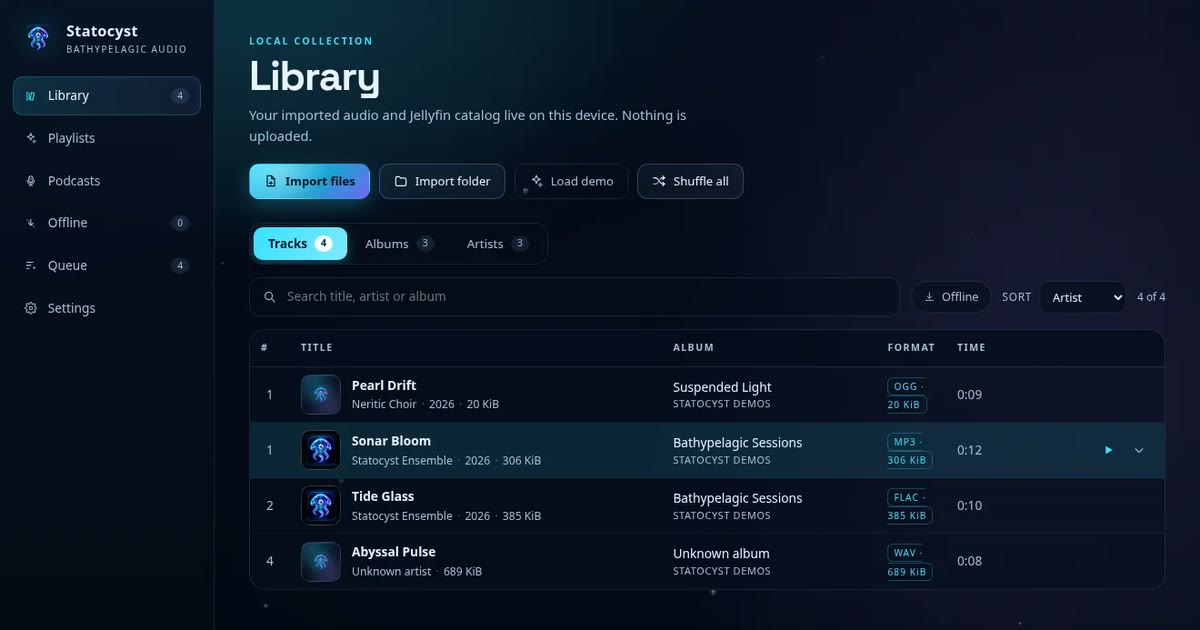
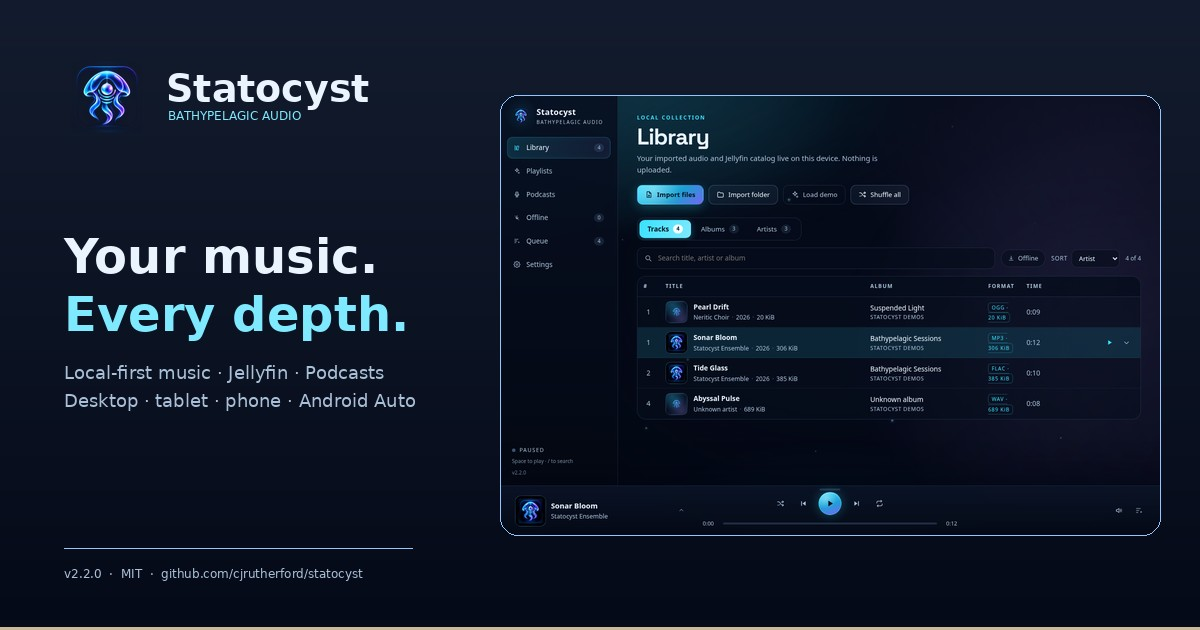
chore(site): complete P2 metadata and polish pass
Add a branded social card, smaller header mark, JSON-LD, robots and sitemap, and finish the remaining accessibility/performance cleanup. The screenshot pass no longer overwrites the OG card.

diff --git a/site/index.html b/site/index.html
@@ -24,6 +24,22 @@
   <link rel="manifest" href="site.webmanifest" />
   <link rel="preload" href="assets/fonts/space-grotesk.woff2" as="font" type="font/woff2" crossorigin />
   <link rel="preload" href="assets/screens/desktop-library-dark.webp" as="image" type="image/webp" />
+  <script type="application/ld+json">
+    {
+      "@context": "https://schema.org",
+      "@type": "SoftwareApplication",
+      "name": "Statocyst",
+      "applicationCategory": "MultimediaApplication",
+      "operatingSystem": "Linux, macOS, Windows, Android, iOS",
+      "description": "Local-first music and podcast player for local files, Jellyfin and Android Auto.",
+      "url": "https://cjrutherford.github.io/statocyst/",
+      "downloadUrl": "{{RELEASE_URL}}",
+      "softwareVersion": "{{VERSION}}",
+      "license": "https://github.com/cjrutherford/statocyst/blob/main/LICENSE",
+      "offers": { "@type": "Offer", "price": "0", "priceCurrency": "USD" },
+      "author": { "@type": "Organization", "name": "Statocyst contributors" }
+    }
+  </script>
   <link rel="stylesheet" href="styles.css" />
   <script>document.documentElement.classList.add('js');</script>
   <noscript><style>.video-toggle{display:none}</style></noscript>
@@ -35,7 +51,7 @@
   <header class="topbar">
     <div class="wrap topbar-inner">
       <a class="brand" href="#top" aria-label="Statocyst home">
-        <img src="assets/branding/statocyst-symbol.webp" alt="" width="512" height="512" />
+        <img src="assets/branding/statocyst-symbol-96.webp" alt="" width="96" height="96" />
         <span>Statocyst</span>
       </a>
       <nav class="nav" aria-label="Primary">
@@ -442,7 +458,7 @@
   <footer class="footer">
     <div class="wrap footer-inner">
       <div class="footer-brand">
-        <img src="assets/branding/statocyst-symbol.webp" alt="" width="512" height="512" />
+        <img src="assets/branding/statocyst-symbol-96.webp" alt="" width="96" height="96" />
         <div><strong>Statocyst</strong><span>Named after the jellyfish’s balance organ.</span></div>
       </div>
       <nav class="footer-links" aria-label="Footer">

diff --git a/tools/make-site-og.py b/tools/make-site-og.py
@@ -1,0 +1,97 @@
+#!/usr/bin/env python3
+"""Build the 1200x630 social card from the current desktop capture.
+
+This is a local design asset, not part of the CI Pages build. Run it after
+refreshing site/captures/desktop-library-dark.png.
+
+Requires Pillow and DejaVu fonts (both available in the reference environment).
+"""
+from pathlib import Path
+import json
+from PIL import Image, ImageDraw, ImageFont
+
+ROOT = Path(__file__).resolve().parent.parent
+CAPTURE = ROOT / 'site/captures/desktop-library-dark.png'
+SYMBOL = ROOT / 'site/assets/branding/statocyst-symbol-128.png'
+OUT = ROOT / 'site/assets/branding/og.jpg'
+
+W, H = 1200, 630
+BG = (5, 10, 24)
+TEXT = (233, 244, 255)
+MUTED = (169, 192, 216)
+CYAN = (127, 233, 255)
+SAND = (203, 185, 158)
+
+
+def font(path, size):
+    return ImageFont.truetype(path, size)
+
+
+def main():
+    capture = Image.open(CAPTURE).convert('RGB')
+    symbol = Image.open(SYMBOL).convert('RGBA')
+
+    canvas = Image.new('RGB', (W, H), BG)
+    draw = ImageDraw.Draw(canvas)
+
+    # A quiet vertical wash, then a warm sand horizon at the bottom.
+    for y in range(H):
+        t = y / H
+        r = int(5 + 14 * (1 - t))
+        g = int(10 + 18 * (1 - t))
+        b = int(24 + 22 * (1 - t))
+        draw.line((0, y, W, y), fill=(r, g, b))
+    draw.rectangle((0, H - 3, W, H), fill=SAND)
+
+    # Screenshot panel.
+    panel_w, panel_h = 660, 440
+    panel = ImageOps_fit(capture, (panel_w, panel_h))
+    panel = round_corners(panel, 18)
+    px, py = 500, 95
+    canvas.paste(panel, (px, py), panel)
+    draw.rounded_rectangle((px, py, px + panel_w, py + panel_h), radius=18, outline=(148, 197, 255, 60), width=1)
+
+    # Left-side brand lockup.
+    logo = symbol.resize((86, 86), Image.LANCZOS)
+    canvas.paste(logo, (64, 54), logo)
+    draw.text((166, 66), 'Statocyst', font=font('/usr/share/fonts/truetype/dejavu/DejaVuSans-Bold.ttf', 38), fill=TEXT)
+    draw.text((168, 108), 'BATHYPELAGIC AUDIO', font=font('/usr/share/fonts/truetype/dejavu/DejaVuSans.ttf', 12), fill=CYAN)
+
+    draw.text((64, 228), 'Your music.', font=font('/usr/share/fonts/truetype/dejavu/DejaVuSans-Bold.ttf', 48), fill=TEXT)
+    draw.text((64, 286), 'Every depth.', font=font('/usr/share/fonts/truetype/dejavu/DejaVuSans-Bold.ttf', 48), fill=CYAN)
+    draw.text((64, 362), 'Local-first music · Jellyfin · Podcasts', font=font('/usr/share/fonts/truetype/dejavu/DejaVuSans.ttf', 18), fill=MUTED)
+    draw.text((64, 390), 'Desktop · tablet · phone · Android Auto', font=font('/usr/share/fonts/truetype/dejavu/DejaVuSans.ttf', 18), fill=MUTED)
+
+    draw.line((64, 548, 412, 548), fill=(148, 197, 255, 80), width=1)
+    version = json.loads((ROOT / 'package.json').read_text())['version']
+    draw.text((64, 566), f'v{version}  ·  MIT  ·  github.com/cjrutherford/statocyst', font=font('/usr/share/fonts/truetype/dejavu/DejaVuSans.ttf', 12), fill=MUTED)
+
+    canvas.save(OUT, 'JPEG', quality=90, optimize=True)
+    print(OUT)
+
+
+def ImageOps_fit(image, size):
+    # Center-crop to the target aspect, then resize.
+    target_ratio = size[0] / size[1]
+    ratio = image.width / image.height
+    if ratio > target_ratio:
+        new_w = int(image.height * target_ratio)
+        left = (image.width - new_w) // 2
+        image = image.crop((left, 0, left + new_w, image.height))
+    else:
+        new_h = int(image.width / target_ratio)
+        top = (image.height - new_h) // 2
+        image = image.crop((0, top, image.width, top + new_h))
+    return image.resize(size, Image.LANCZOS)
+
+
+def round_corners(image, radius):
+    mask = Image.new('L', image.size, 0)
+    ImageDraw.Draw(mask).rounded_rectangle((0, 0, image.width, image.height), radius=radius, fill=255)
+    out = image.convert('RGBA')
+    out.putalpha(mask)
+    return out
+
+
+if __name__ == '__main__':
+    main()

diff --git a/docs/marketing/landing-page-plan.md b/docs/marketing/landing-page-plan.md
@@ -241,10 +241,10 @@ The first draft is in `site/` and builds to `_site/`.
 - `site/main.js` — platform-aware download CTA, lazy clip playback, reduced-motion guard.
 - `site/captures/` — raw PNGs captured from the current 2.2.0 Electron build.
 - `site/assets/` — WebP screen captures, three real Android transition clips with posters,
-  brand marks, favicons and the 1200×630 OG image.
-- `tools/update-site-screenshots.mjs` — the screenshot update pass: converts the real
-  captures in `evidence/` to WebP, refreshes clip posters, rebuilds the OG image, and
-  generates the constructed car preview.
+  brand marks, favicons and the 1200×630 OG image (`tools/make-site-og.py`).
+- `tools/update-site-screenshots.mjs` — the screenshot update pass: converts the current
+  captures in `site/captures/` to WebP, refreshes clip posters, and generates the
+  constructed car previews.
 - `tools/make-car-mock.mjs` — generates the two Android Auto SVGs
   (`car-head-unit-now-playing.svg`, `car-head-unit-browse.svg`) from the app icon, demo
   cover and self-hosted fonts.
@@ -323,3 +323,14 @@ redundancy.
   added a full-size car preview link.
 - Removed the duplicate car disclaimer and fixed the callout specificity.
 - Replaced internal-note/jargon copy and extended the beta meta description.
+
+## 15. P2 polish pass
+
+- Branded 1200×630 OG card (`tools/make-site-og.py`) with the symbol, wordmark, headline
+  and current desktop capture; the screenshot pass no longer overwrites it with a raw crop.
+- 96px header/footer mark instead of loading the 512px brand image above the fold.
+- JSON-LD `SoftwareApplication` metadata, `robots.txt` and `sitemap.xml`.
+- Removed the eager browse-SVG warm-up; car previews load only when needed.
+- Added `role="group"` to labelled non-landmark blocks, made the car tabpanel focusable,
+  and kept the figure caption last.
+- Added a full-size car preview link for narrow screens.

diff --git a/README.md b/README.md
@@ -60,13 +60,14 @@ The packaged smoke test verifies `app.asar`, the unpacked libSQL native module, 
 ## Landing page
 
 The static marketing page lives in `site/`. The build first runs a screenshot update
-pass (the current captures in `site/captures/` → WebP, clip posters, OG image, and two
+pass (the current captures in `site/captures/` → WebP, clip posters, and two
 constructed Android Auto previews), then bakes the latest stable GitHub release into the
 download shelf:
 
 ```bash
 pnpm site:capture                     # recapture the current Electron build into site/captures/
 pnpm site:screenshots                 # convert those captures and regenerate the car previews
+pnpm site:og                          # rebuild the branded 1200×630 social card (Pillow)
 node tools/build-site.mjs --offline   # use the checked-in release snapshot
 node tools/build-site.mjs             # use the GitHub API, fall back locally
 node tools/build-site.mjs --strict    # CI mode: fail if the API or an asset is missing
